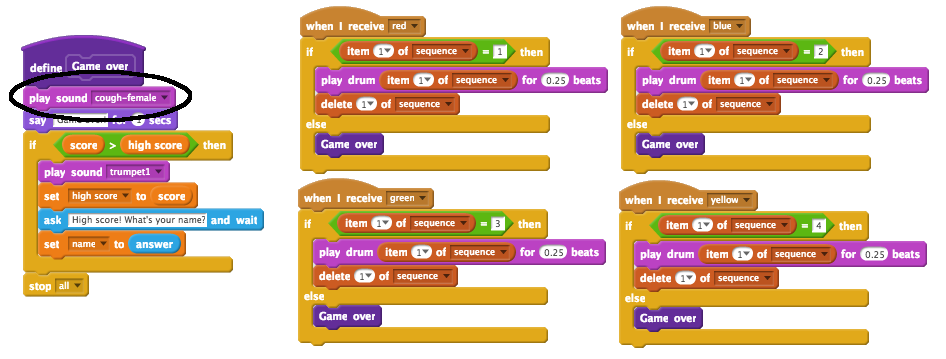
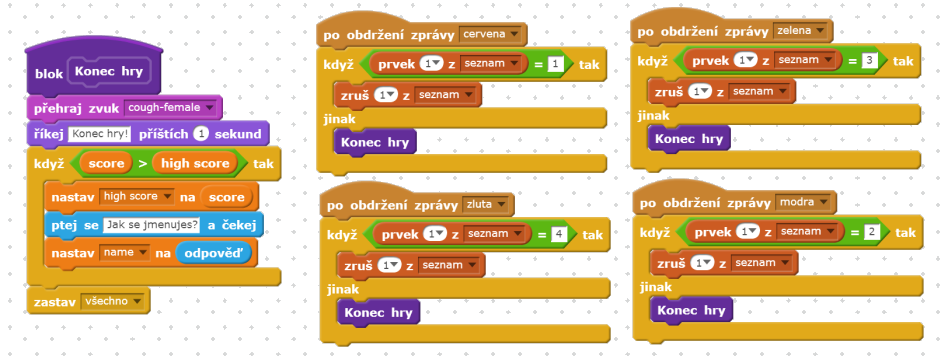
memory

diff --git a/cs-CZ/Term 2/Memory/Memory.md b/cs-CZ/Term 2/Memory/Memory.md
@@ -81,14 +81,14 @@ Přidej 4 tlačítka, kterýmí hráč zopakuje sekvenci barev, kterou si zapama
 
 	![screenshot](colour-drums.png)
 
-+ Pokud klikneš na červený buben, je potřeba poslat zprávu postavě, a dát j vědět, že bylo stisknuto toto 'tlačítko'. Přidej k červenému bubnu tetno kód:
++ Pokud klikneš na červený buben, je potřeba poslat zprávu postavě, a dát jí vědět, že bylo stisknuto toto 'tlačítko'. Přidej k červenému bubnu tetno kód:
 
 	```blocks
 		po kliknutí na mě
 		rozešli všem [cervena v]
 	```
 
-+ Když postava dostane tuto zprávu, podíváme se jestli na začatku seznamu je červená - říslo 1. Pokud ano, tak ji odstraníme ze seznamu, pokud ne, tak je konec hry!
++ Když postava dostane tuto zprávu, podíváme se jestli na začatku seznamu je červená - číslo 1. Pokud ano, tak ji odstraníme ze seznamu, pokud ne, tak je konec hry!
 
 	```blocks
 		po obdržení zprávy [red v]
@@ -103,11 +103,11 @@ Přidej 4 tlačítka, kterýmí hráč zopakuje sekvenci barev, kterou si zapama
 + Jakmile je list prázdný zobraz blikající světla, to znamená, že si hráč zapamatoval vše správně. Přidej tento kód do  kódu tvé postavy nakonec bloku `po kliknutí na ⚑` {.blockevents}:
 
 	```blocks
-		čekej dokud nenastatne < (délka [seznam v]) = [0]>
+		čekej dokud nenastane <(délka [seznam v]) = [0]>
 		rozešli všem [vyhra v] a čekej
 	```
 
-+ Klikni na scénu a přidej tento kód, který změní barvu pozadí, když gráč vyhraje:
++ Klikni na scénu a přidej tento kód, který změní barvu pozadí, když hráč vyhraje:
 
 	```blocks
 		po obdržení zprávy [vyhra v]
@@ -134,11 +134,11 @@ Doteď si hráč musel zapamatovat jen 5 barev. Vylepši hru tak, aby se délka 
 
 ## Seznam úkolů { .check }
 
-+ Vytovř novou proměnnou nazvanou `score` {.blockdata}.
++ Vytvoř novou proměnnou nazvanou `score` {.blockdata}.
 
 	![screenshot](colour-score.png)
 
-+ Toto `score` {.blockdata} bude použito pro rozhodování, kolik barev si má hráč zapamatovat. Na začátek ho nastavíme na 3. Přidej tent kód k tvé postavě na začátek bloku `po kliknutí na ⚑` {.blockevents}:
++ Toto `score` {.blockdata} bude použito pro rozhodování, kolik barev si má hráč zapamatovat. Na začátek ho nastavíme na 3. Přidej tento kód k tvé postavě na začátek bloku `po kliknutí na ⚑` {.blockevents}:
 
 	```blocks
 		nastav [score v] na [3]
@@ -157,7 +157,7 @@ Doteď si hráč musel zapamatovat jen 5 barev. Vylepši hru tak, aby se délka 
 		změň [score v] o (1)
 	```
 
-+ Nakonec, musíš přidat smyčku `opakuj dokola` {.blockcontrol} kolem sekvence kódu na generování seznamu, tak aby se pro každou úroveň vytvořila nová sekvence. Takto by měl vypadat kód postavy:
++ Nakonec, musíš přidat smyčku `opakuj dokola` {.blockcontrol} kolem sekvence kódu na generování seznamu tak, aby se pro každou úroveň vytvořila nová sekvence. Takto by měl vypadat kód postavy:
 
 	```blocks
 		po kliknutí na ⚑
@@ -190,63 +190,70 @@ Ukládej nejvyšší skóre, abyste mohli s kamarády hrát proti sobě.
 + If ever the game ends (by pressing the wrong button), you need to check whether the player's score is higher than the current high score. If it is, you need to save the score as the high score, and store the name of the player. Here's how your red button should look:
 
 	```blocks
-		po obdržení zprávy [red v]
-		if <(item (1 v) of [seznam v])=[1]> then
-			delete (1 v) of [seznam v]
-		else
-			say [Game over!] for (1) secs
-			if < (score) > (high score) > then
-				set [high score v] to (score)
-				ask [High score! What is your name?] a čekej
-				set [name v] to (answer)
+		po obdržení zprávy [cervena v]
+		když <(prvek (1 v) z [seznam v])=[1]> tak
+			zruš (1 v) z [seznam v]
+		jinak
+			říkej [Konec hry!] příštích (1) sekund
+			když < (score) > (high score) > tak
+				nastav [high score v] na (score)
+				ptej se [Nejvyšší skóre! Jak se jmenuješ?] a čekej
+				nastav [name v] na (answer)
 			end
 			zastav [vše v]
-		end
+		end		
 	```
 
-+ You'll need to add this new code to the other 3 buttons too! Have you noticed that the 'Game over' code in each of the 4 buttons is exactly the same?
++ Tento kód mus´š přidat do všech tlačítek! Všiml sis, že je kód pro konec hry všude stejný?
 
 	![screenshot](colour-same.png)
 
-+ If ever you need to change any of this code, such as adding a sound or changing the 'Game over!' message, you'd have to change it 4 times! That could get annoying, and waste a lot of time.
++ Pokud bys potřeboval něco změnit, například zprávu 'Konec hry!', musíš to udělat 4x! To zabere spustu času a je to zbytečné.
 
-	Instead, you can define your own blocks, and reuse them in your project! To do this, click `more blocks` {.blockmoreblocks}, and then 'Make a block'. Call this new block 'Game over'.
+	Místo toho si můžeš definovat vlastní bloky a používat je znova ve svém projektu. Abys to udělal klikni na `Bloky` {.blockmoreblocks} a pak na 'Vytvořit blok'. Nazvi tento nový blok 'Konec hry'.
 
 	![screenshot](colour-more.png)
 
-+ Add the code from the `else` {.blockcontrol} block from the red button to the new block that appears:
++ Přesun blok z bloku `jinak` {.blockcontrol} pro červené tlačítko do nového bloku, který se objeví:
 
-	![screenshot](colour-make-block.png)
+	blok Konec hry	
+    říkej [Konec hry!] příštích (1) sekund
+    když < (score) > (high score) > tak
+        nastav [high score v] na (score)
+        ptej se [Nejvyšší skóre! Jak se jmenuješ?] a čekej
+        nastav [name v] na (answer)
+    end
+    zastav [vše v]
 
-+ You've now made a new _function_ called `Game over` {.blockmoreblocks}, which you can use anywhere you like. Drag your new `Game over` {.blockmoreblocks} block onto the 4 scripts for the buttons.
++ Nyní jsi vytvořil novou funkci_ nazvanou `Konec hry` {.blockmoreblocks}, kterou můžeš použít kdekoliv chceš. Přesuň blok `Konec hry` {.blockmoreblocks} do všech 4 tlačítek.
 
 	![screenshot](colour-use-block.png)
 
-+ Now add a sound for when the wrong button is pressed. You only need to add this code _once_ in the `Game over` {.blockmoreblocks} block that you made, and not 4 separate times!
++ Nyní přidej zvuk, když hráč udělá chybu. Tentokrát stačí jen _jendou_ do bloku `Konec hry` {.blockmoreblocks} který jsi vytvořil(a) a ne 4x!
 
 	![screenshot](colour-cough.png)
 
-## Výzva: Making more blocks {.challenge}
-Do you notice any other code that is the same for all 4 buttons?
+## Výzva: Tvorba více bloků {.challenge}
+Všiml(a) sis ještě nějakého kódu, který se opakuje pro všechny 4 tlačítka?
 
 ![screenshot](colour-more-blocks.png)
 
-Can you make another custom block, that is used by each button?
+Zkusíš udělat dalši blok, který by šel všude použít?
 
 ## Ulož projekt { .save }
 
-## Výzva: Another costume {.challenge}
-Have you noticed that your game starts with your character showing one of the 4 colours, and that they always display the last colour in the sequence while the player is repeating the sequence?
+## Výzva: Další kostým {.challenge}
+Všiml(a) sis, že hra začíná ukazuje, když má hráč hádat poslední barvu?
 
-Can you add another plain white costume to your character, which is displayed at the start of your game, and when the player is trying to copy the sequence?
+Přidej bílý kostým a zobraz ho na začátku hry a když má hráč hádat.
 
 ![screenshot](colour-white.png)
 
 ## Ulož projekt { .save }
 
-## Výzva: Difficulty level {.challenge}
-Can you allow your player to choose between 'easy mode' (using just the red and blue drums) and 'normal mode' (which uses all 4 drums)?
+## Výzva: Úroveň obtížnosti {.challenge}
+Zkus hráče nechat rozhodnout, jestli bude hrát 'lehkou úroveň' (jen červený a modrý buben) nebo 'normální úroveň' (všechny 4 bubny)?
 
-You could even add a 'hard' mode, which makes use of a 5th drum!
+Můžeš taky přidat 'těžkou úroveň', která přidá pátý buben!
 
 ## Ulož projekt { .save }
